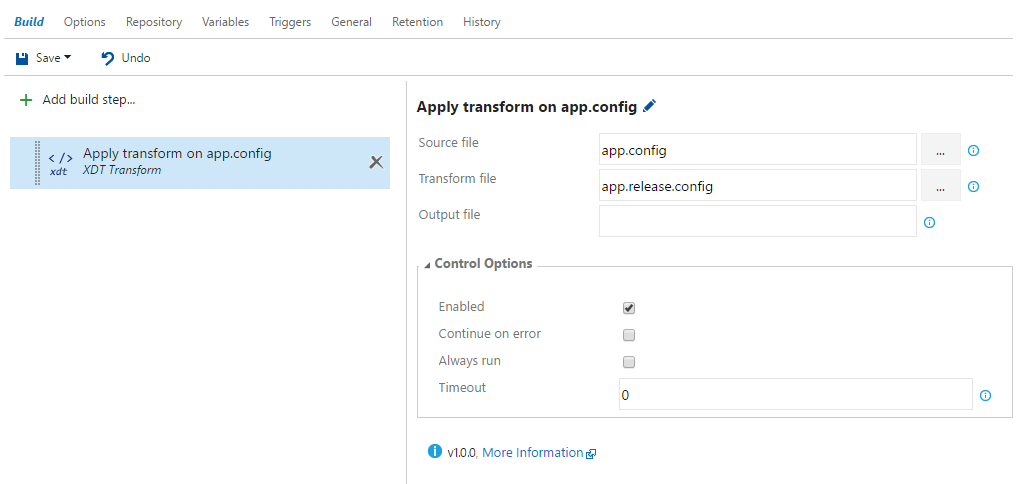
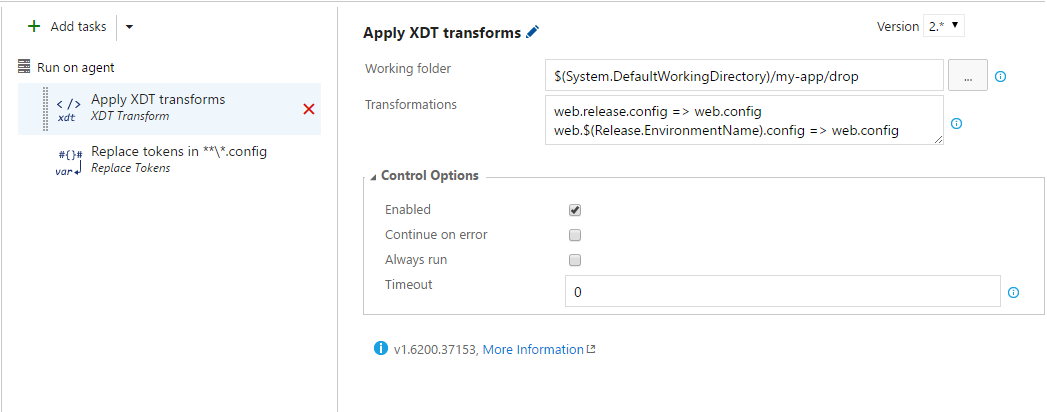
Add support for multiple entries

diff --git a/gulpfile.js b/gulpfile.js
@@ -38,7 +38,6 @@ gulp.task('package', ['build'], function() {
         version: args.version,
         stage: args.stage,
         public: args.public,
-        private: args.private,
         taskId: args.taskId
     }
 
@@ -46,7 +45,7 @@ gulp.task('package', ['build'], function() {
         if (options.version === 'auto') {
             var ref = new Date(2000, 1, 1);
             var now = new Date();
-            var major = 0
+            var major = 1
             var minor = Math.floor((now - ref) / 86400000);
             var patch = Math.floor(Math.floor(now.getSeconds() + (60 * (now.getMinutes() + (60 * now.getHours())))) * 0.5)
             options.version = major + '.' + minor + '.' + patch
@@ -61,7 +60,6 @@ gulp.task('package', ['build'], function() {
         case 'dev':
             options.taskId = 'BC5D1625-874F-4ABF-AC07-4A55EC6DCC76';
             options.public = false;
-            options.private = false;
             break;
     }
     

diff --git a/README.md b/README.md
@@ -1,14 +1,35 @@
-[![Donate](https://raw.githubusercontent.com/qetza/vsts-xdttransform-task/master/images/donate.png)](https://www.paypal.me/grouchon/5)
+[![Donate](images/donate.png)](https://www.paypal.me/grouchon/5)
 
-# XDT transform task for Visual Studio Team Services
-This extension contains a build/release task for VS Team Services to apply XDT transforms on XML files.
+# XDT transform task
+Visual Studio Team Services Build and Release extension that applies XDT transforms on XML files.
 
-# How to use the build/release task
-1. After installing the extension, upload your project to VSTS.
-2. Go to your VSTS project, click on the **Release** tab, and create a new release definition.
-3. Click **Add tasks** and select **XDT Transform** from the **Utility** category.
-4. Configure the step.
+## Usage
+Add a new task, select **XDT Transform** from the **Utility** category and configure it as needed.
+
+![XDT Transform parameters](images/task-parameters.png)
+
+Parameters include:
+- **Working folder**: the working directory for relative paths. If not specified the default working directory will be used.
+- **Transformations**: an absolute or relative newline-separated transformation file rules.
+
+> **Syntax**: {xdt path} => {xml path}[ => {output path}]  
+>
+> - `web.release.config => web.config` will apply web.release.config to web.config and update the file.  
+> - `xdt\web.release.config => config\web.config => web.config` will apply xdt\web.release.config to config\web.config and save the result in web.config.
+
+## Tips
+You can use the [XDT tranform task](https://marketplace.visualstudio.com/items?itemName=qetza.xdttransform) to inject tokens in your XML based configuration files configured for local development and then use the [Replace Tokens task](https://marketplace.visualstudio.com/items?itemName=qetza.replacetokens) to replace those tokens with variable values:
+- create an XDT transformation file containing your tokens
+- setup your configuration file with local developement values
+- at deployment time
+  - inject your tokens in the configuration file by using your transformation file
+  - replace tokens in your updated configuration file
 
 # Release notes
+**New in 2.0.0**
+- **Breaking change**: All previous parameters are now merged in a single line using syntax `{xdt path} => {xml path}[ => {output path}]`.
+- Add support for multiple transformations.
+- Add _Working folder_ parameter for root of relative paths.
+
 **New in 1.0.0**
 - Initial release
